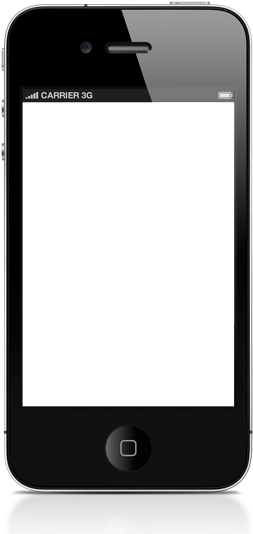
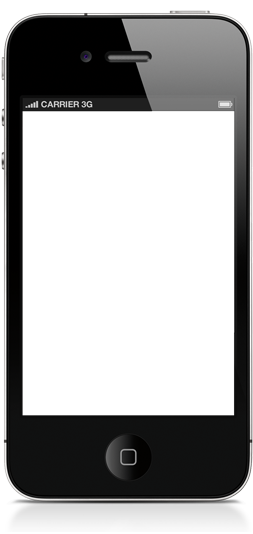
added screenshots to home
closes #79

diff --git a/public/javascripts/jquery.cycle.js b/public/javascripts/jquery.cycle.js
@@ -1,0 +1,218 @@
+/*
+ * jQuery Cycle Lite Plugin
+ * http://malsup.com/jquery/cycle/lite/
+ * Copyright (c) 2008-2011 M. Alsup
+ * Version: 1.3 (01-JUN-2011)
+ * Dual licensed under the MIT and GPL licenses:
+ * http://www.opensource.org/licenses/mit-license.php
+ * http://www.gnu.org/licenses/gpl.html
+ * Requires: jQuery v1.3.2 or later
+ */
+;(function($) {
+
+var ver = 'Lite-1.3';
+
+$.fn.cycle = function(options) {
+    return this.each(function() {
+        options = options || {};
+        
+        if (this.cycleTimeout) clearTimeout(this.cycleTimeout);
+        this.cycleTimeout = 0;
+        this.cyclePause = 0;
+        
+        var $cont = $(this);
+        var $slides = options.slideExpr ? $(options.slideExpr, this) : $cont.children();
+        var els = $slides.get();
+        if (els.length < 2) {
+            window.console && console.log('terminating; too few slides: ' + els.length);
+            return; // don't bother
+        }
+
+        // support metadata plugin (v1.0 and v2.0)
+        var opts = $.extend({}, $.fn.cycle.defaults, options || {}, $.metadata ? $cont.metadata() : $.meta ? $cont.data() : {});
+		var meta = $.isFunction($cont.data) ? $cont.data(opts.metaAttr) : null;
+		if (meta)
+			opts = $.extend(opts, meta);
+            
+        opts.before = opts.before ? [opts.before] : [];
+        opts.after = opts.after ? [opts.after] : [];
+        opts.after.unshift(function(){ opts.busy=0; });
+            
+        // allow shorthand overrides of width, height and timeout
+        var cls = this.className;
+        opts.width = parseInt((cls.match(/w:(\d+)/)||[])[1]) || opts.width;
+        opts.height = parseInt((cls.match(/h:(\d+)/)||[])[1]) || opts.height;
+        opts.timeout = parseInt((cls.match(/t:(\d+)/)||[])[1]) || opts.timeout;
+
+        if ($cont.css('position') == 'static') 
+            $cont.css('position', 'relative');
+        if (opts.width) 
+            $cont.width(opts.width);
+        if (opts.height && opts.height != 'auto') 
+            $cont.height(opts.height);
+
+        var first = 0;
+        $slides.css({position: 'absolute', top:0, left:0}).each(function(i) { 
+            $(this).css('z-index', els.length-i) 
+        });
+        
+        $(els[first]).css('opacity',1).show(); // opacity bit needed to handle reinit case
+        if ($.browser.msie) els[first].style.removeAttribute('filter');
+
+        if (opts.fit && opts.width) 
+            $slides.width(opts.width);
+        if (opts.fit && opts.height && opts.height != 'auto') 
+            $slides.height(opts.height);
+        if (opts.pause) 
+            $cont.hover(function(){this.cyclePause=1;}, function(){this.cyclePause=0;});
+
+        var txFn = $.fn.cycle.transitions[opts.fx];
+		txFn && txFn($cont, $slides, opts);
+        
+        $slides.each(function() {
+            var $el = $(this);
+            this.cycleH = (opts.fit && opts.height) ? opts.height : $el.height();
+            this.cycleW = (opts.fit && opts.width) ? opts.width : $el.width();
+        });
+
+        if (opts.cssFirst)
+            $($slides[first]).css(opts.cssFirst);
+
+        if (opts.timeout) {
+            // ensure that timeout and speed settings are sane
+            if (opts.speed.constructor == String)
+                opts.speed = {slow: 600, fast: 200}[opts.speed] || 400;
+            if (!opts.sync)
+                opts.speed = opts.speed / 2;
+            while((opts.timeout - opts.speed) < 250)
+                opts.timeout += opts.speed;
+        }
+        opts.speedIn = opts.speed;
+        opts.speedOut = opts.speed;
+
+ 		opts.slideCount = els.length;
+        opts.currSlide = first;
+        opts.nextSlide = 1;
+
+        // fire artificial events
+        var e0 = $slides[first];
+        if (opts.before.length)
+            opts.before[0].apply(e0, [e0, e0, opts, true]);
+        if (opts.after.length > 1)
+            opts.after[1].apply(e0, [e0, e0, opts, true]);
+        
+        if (opts.click && !opts.next)
+            opts.next = opts.click;
+        if (opts.next)
+            $(opts.next).bind('click', function(){return advance(els,opts,opts.rev?-1:1)});
+        if (opts.prev)
+            $(opts.prev).bind('click', function(){return advance(els,opts,opts.rev?1:-1)});
+
+        if (opts.timeout)
+            this.cycleTimeout = setTimeout(function() {
+                go(els,opts,0,!opts.rev)
+            }, opts.timeout + (opts.delay||0));
+    });
+};
+
+function go(els, opts, manual, fwd) {
+    if (opts.busy) return;
+    var p = els[0].parentNode, curr = els[opts.currSlide], next = els[opts.nextSlide];
+    if (p.cycleTimeout === 0 && !manual) 
+        return;
+
+    if (manual || !p.cyclePause) {
+        if (opts.before.length)
+            $.each(opts.before, function(i,o) { o.apply(next, [curr, next, opts, fwd]); });
+        var after = function() {
+            if ($.browser.msie)
+                this.style.removeAttribute('filter');
+            $.each(opts.after, function(i,o) { o.apply(next, [curr, next, opts, fwd]); });
+        };
+
+        if (opts.nextSlide != opts.currSlide) {
+            opts.busy = 1;
+            $.fn.cycle.custom(curr, next, opts, after);
+        }
+        var roll = (opts.nextSlide + 1) == els.length;
+        opts.nextSlide = roll ? 0 : opts.nextSlide+1;
+        opts.currSlide = roll ? els.length-1 : opts.nextSlide-1;
+    }
+    if (opts.timeout)
+        p.cycleTimeout = setTimeout(function() { go(els,opts,0,!opts.rev) }, opts.timeout);
+};
+
+// advance slide forward or back
+function advance(els, opts, val) {
+    var p = els[0].parentNode, timeout = p.cycleTimeout;
+    if (timeout) {
+        clearTimeout(timeout);
+        p.cycleTimeout = 0;
+    }
+    opts.nextSlide = opts.currSlide + val;
+    if (opts.nextSlide < 0) {
+        opts.nextSlide = els.length - 1;
+    }
+    else if (opts.nextSlide >= els.length) {
+        opts.nextSlide = 0;
+    }
+    go(els, opts, 1, val>=0);
+    return false;
+};
+
+$.fn.cycle.custom = function(curr, next, opts, cb) {
+    var $l = $(curr), $n = $(next);
+    $n.css(opts.cssBefore);
+    var fn = function() {$n.animate(opts.animIn, opts.speedIn, opts.easeIn, cb)};
+    $l.animate(opts.animOut, opts.speedOut, opts.easeOut, function() {
+        $l.css(opts.cssAfter);
+        if (!opts.sync) fn();
+    });
+    if (opts.sync) fn();
+};
+
+$.fn.cycle.transitions = {
+    fade: function($cont, $slides, opts) {
+		$slides.not(':eq(0)').hide();
+		opts.cssBefore = { opacity: 0, display: 'block' };
+		opts.cssAfter  = { display: 'none' };
+		opts.animOut = { opacity: 0 };
+		opts.animIn = { opacity: 1 };
+    },
+    fadeout: function($cont, $slides, opts) {
+		opts.before.push(function(curr,next,opts,fwd) {
+			$(curr).css('zIndex',opts.slideCount + (fwd === true ? 1 : 0));
+			$(next).css('zIndex',opts.slideCount + (fwd === true ? 0 : 1));
+		});
+		$slides.not(':eq(0)').hide();
+		opts.cssBefore = { opacity: 1, display: 'block', zIndex: 1 };
+		opts.cssAfter  = { display: 'none', zIndex: 0 };
+		opts.animOut = { opacity: 0 };
+    }
+};
+
+$.fn.cycle.ver = function() { return ver; };
+
+// @see: http://malsup.com/jquery/cycle/lite/
+$.fn.cycle.defaults = {
+	animIn:        {},
+	animOut:       {},
+	fx:           'fade',
+    after:         null, 
+    before:        null, 
+	cssBefore:     {},
+	cssAfter:      {},
+    delay:         0,    
+    fit:           0,    
+    height:       'auto',
+	metaAttr:     'cycle',
+    next:          null, 
+    pause:         0,    
+    prev:          null, 
+    speed:         1000, 
+    slideExpr:     null,
+    sync:          1,    
+    timeout:       4000 
+};
+
+})(jQuery);

diff --git a/public/javascripts/application.js b/public/javascripts/application.js
@@ -29,8 +29,8 @@ $(function() {
   });
 
   $(document).scroll(function() {
-    var top = $(document).scrollTop();
     $("#navigation a").removeClass("active");  
+    var top = $(document).scrollTop();
     if (top >= positions.contact) {
       $("#navigation a#contact").addClass("active");
     }
@@ -41,6 +41,9 @@ $(function() {
       $("#navigation a#app").addClass("active");
     }
   });
+
+  // cycle screenshots
+  $("#screenshots").cycle("fade");
 
   // deals
   $(".deal").hover(

diff --git a/public/stylesheets/application.css b/public/stylesheets/application.css
@@ -162,6 +162,17 @@ a {
   left: 300px;
 }
 
+#home #phone {
+  margin-top: 20px;
+}
+
+#home #screenshots {
+  z-index: -1;
+  display: inline;
+  left: -232px;
+  top: -409px;
+}
+
 #app {
   height: 755px;
 }
